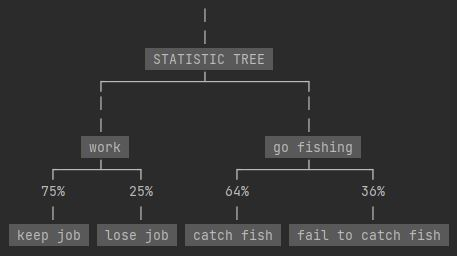
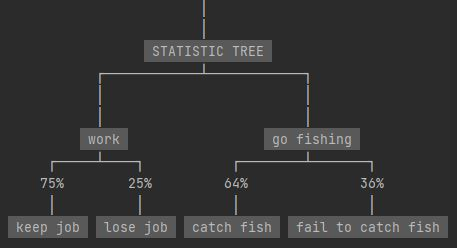
Fixed max_depth bug for horizontal trees and added label color

Changed region(s): [[0.0306, 0.0, 0.7965, 0.875], [0.3982, 0.6492, 1.0, 0.9597], [0.0306, 0.875, 0.3676, 0.9597]]

diff --git a/PrettyPrint/PrintTree.py b/PrettyPrint/PrintTree.py
@@ -31,6 +31,7 @@ class PrettyPrintTree:
                  get_val: Callable[[object], object] = None,
                  get_label: Callable[[object], object] = None,
                  *,
+                 label_color="",
                  show_newline_literal: bool = False,
                  return_instead_of_print: bool = False,
                  trim=False,
@@ -49,6 +50,7 @@ class PrettyPrintTree:
         self.get_children = (lambda x: x.children) if get_children is None else get_children
         self.get_node_val = (lambda x: x.value) if get_val is None else get_val
         self.get_label = get_label
+        self.label_color = label_color
         # only display first x chars
         self.trim = trim
         # if true will display \n as \n and not as new lines
@@ -76,7 +78,8 @@ class PrettyPrintTree:
  /^\\                                                                  /^\\
 //|\\\\     As of now labels are only supported for vertical trees     //|\\\\
 //|\\\\                                                                //|\\\\
-  |                                                                    |""")
+  |                                                                    |
+""")
         if isinstance(node, dict) or isinstance(node, list) or isinstance(node, tuple):
             self.print_json(node, max_depth=max_depth)
             return
@@ -89,7 +92,7 @@ class PrettyPrintTree:
         else:
             res = self.tree_to_str(node)
 
-        is_node = lambda x: (x.startswith('[') or
+        is_node = lambda x: (x.startswith('[') or x.startswith('|') or
                              (x.startswith('│') and x.strip() != '│') or
                              len(x) > 1 and x[1:-1] == '─' * (len(x) - 2) and x[0] + x[-1] in ['┌┐', '└┘'])
         lines = ["".join(self.color_txt(x) if is_node(x) else x for x in line) for line in res]
@@ -171,7 +174,7 @@ class PrettyPrintTree:
 
     def put_label(self, node, res):
         label = self.get_label(node)
-        label = str(label) if label else '|'
+        label = ('|' + str(label) + '|') if label else '│'
         if len(label) > len(res[0][-1]):
             diff = len(label) - len(res[0][-1])
             for row in res:
@@ -181,7 +184,7 @@ class PrettyPrintTree:
             pos = len(res[0][0]) + d - (1 * (1 - m))
         else:
             pos = len(res[0][0]) // 2
-        res.insert(0, [" " * pos, "|"])
+        res.insert(0, [" " * pos, "│"])
         res.insert(0, [" " * (pos - len(label) // 2), label])
 
     def tree_to_str_horizontal(self, node, depth=0):
@@ -204,6 +207,7 @@ class PrettyPrintTree:
                     to_print.extend([[]])
                 child_print = self.tree_to_str_horizontal(child, depth=depth + 1)
                 to_print.extend(child_print)
+
         val_width = max(len("".join(x)) for x in val) + 2
         middle_children = sum(divmod(len(to_print), 2))
         middle_this = sum(divmod(len(val), 2))
@@ -238,8 +242,10 @@ class PrettyPrintTree:
             else:
                 if to_print[r+pos]:
                     to_print[r + pos][0] = ('┤' if not added else '│') + to_print[r + pos][0][1:]
-                else:
+                elif depth + 1 != self.max_depth:
                     to_print[r + pos].append('┤' if not added else '│')
+                else:
+                    to_print[r + pos].append('')
                 if not added:
                     last = r + pos
             added = True
@@ -265,7 +271,7 @@ class PrettyPrintTree:
         while to_print[last][indx].strip() != '' or to_print[last][indx+1].startswith('['):
             indx += 1
         indx += 1
-        to_print[last][indx] = {'┬': '─', '├': '└', '┌': '─', '┼': '┴', '┤': '┘'}[to_print[last][indx]]
+        to_print[last][indx] = {'┬': '─', '├': '└', '┌': '─', '┼': '┴', '┤': '┘', '': ''}[to_print[last][indx]]
         for i in range(last + 1, len(to_print)):
             indx = 0
             while to_print[i][indx].strip() != '' or to_print[i][indx+1].startswith('['):
@@ -275,9 +281,14 @@ class PrettyPrintTree:
         return to_print
 
     def color_txt(self, x):
-        spaces = " " * (len(x) - len(x.lstrip()))
-        txt = x.lstrip() if self.border else (" " + x.lstrip()[1:-1] + " ")
-        txt = self.color + txt + Style.RESET_ALL if self.color else txt
+        spaces = " " * (len(x) - len(x := x.lstrip()))
+        is_label = x.startswith('|')
+        if is_label:
+            x = f' { x[1:-1] } '
+            x = (self.label_color + x + Style.RESET_ALL) if self.label_color else x
+            return spaces + x
+        txt = x if self.border else f' { x[1:-1] } '
+        txt = (self.color + txt + Style.RESET_ALL) if self.color else txt
         return spaces + txt
 
     def format_box(self, spacing, val):

diff --git a/setup.py b/setup.py
@@ -6,7 +6,7 @@ long_description = (this_directory / "README.md").read_text()
 
 setup(
     name='PrettyPrintTree',
-    version='1.36.0',
+    version='1.36.1',
     author="Aharon Sambol",
     author_email='email@example.com',
     py_modules=find_packages('PrettyPrint'),

diff --git a/README.md b/README.md
@@ -219,7 +219,9 @@ You can also label the branches in your tree.
 
 The label lambda should return a string, if there should be no label then None or False.
 
-NOTE: Currently this only works on vertical trees 
+NOTE: Currently this only works on vertical trees
+
+NOTE: Each label must be on a single line (no \n)
 
 ```python
 pt = PrettyPrintTree(
@@ -229,6 +231,20 @@ pt = PrettyPrintTree(
 )
 ```
 ![plot](./ExampleImages/statistic.JPG)
+
+You can even color the labels using label_color
+
+```python
+from colorama import Back
+
+pt = PrettyPrintTree(
+    lambda x: x.children, 
+    lambda x: x.val, 
+    lambda x: x.label,
+    label_color=Back.BLACK
+)
+```
+![plot](./ExampleImages/label_color.JPG)
 
 # Advanced Examples
 
